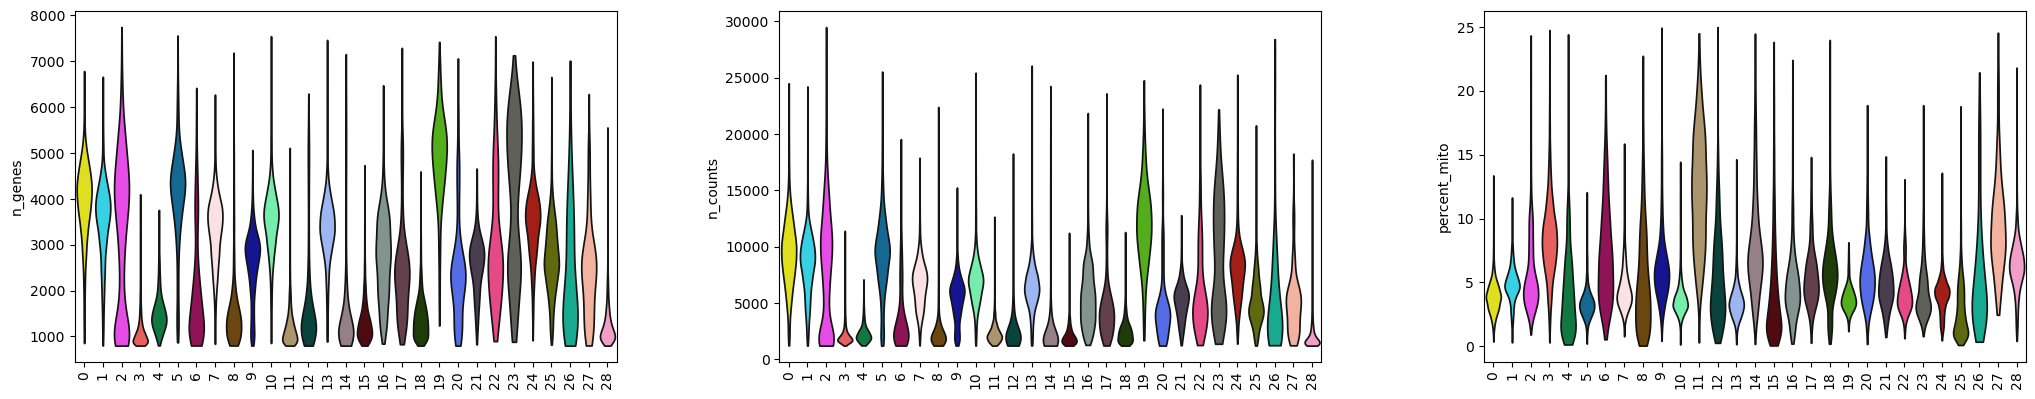
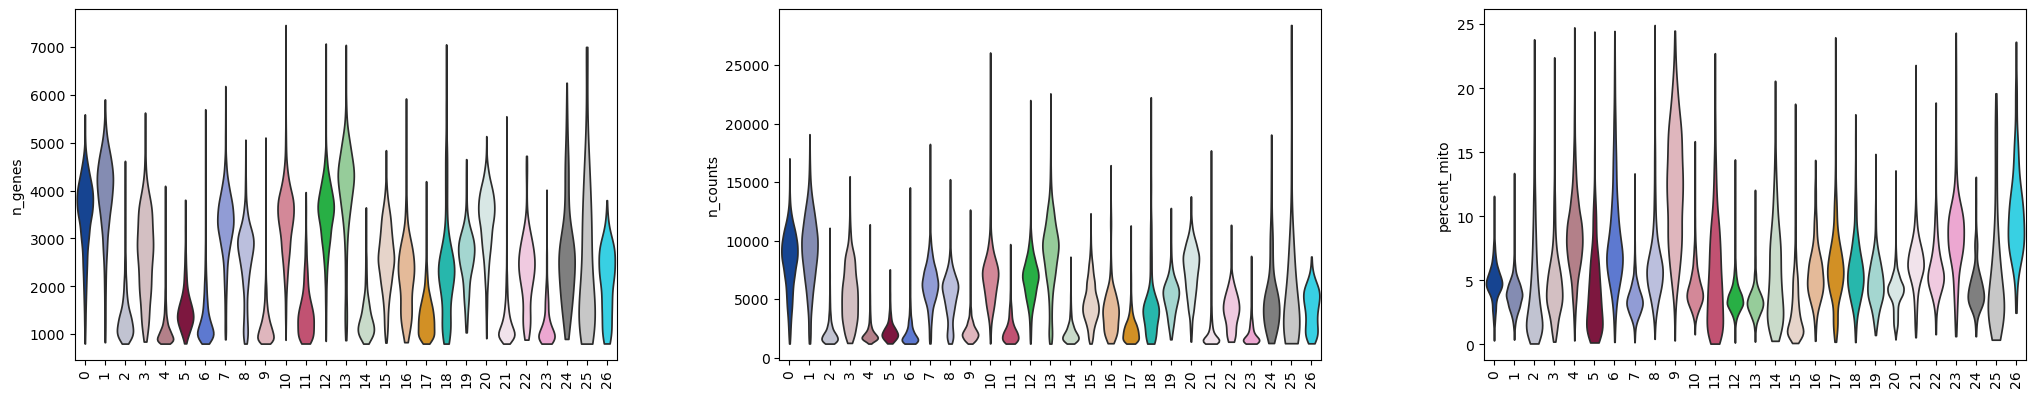
Update reClsuter and add umap/qc after recluster

diff --git a/src/reCluster.py b/src/reCluster.py
@@ -11,6 +11,7 @@ def main():
     args = parser.parse_args()
 
     out_base = os.path.splitext(os.path.basename(args.output))[0]
+    input_base = os.path.splitext(os.path.basename(args.input))[0]
 
     # ----------------------------
     # Load
@@ -32,6 +33,25 @@ def main():
     print(adata.obs["annotation"].value_counts())
 
     # ----------------------------
+    # UMAP after removing clusters (before reclustering)
+    # Use the original UMAP coordinates
+    # ----------------------------
+    removed_umap_file = f"_{input_base}_removedClusters_UMAP.png"
+    sc.pl.umap(
+        adata,
+        color="annotation",
+        legend_loc="on data",
+        title="After Removing Selected Cell Types",
+        show=False,
+        save=removed_umap_file
+    )
+    # shrink cluster numbers (on data)
+    for txt in plt.gca().texts:
+        txt.set_fontsize(6)
+    plt.draw()
+    plt.close()
+
+    # ----------------------------
     # Reclustering (use existing log counts)
     # ----------------------------
     print("Reclustering...")
@@ -48,7 +68,7 @@ def main():
     )
 
     # ----------------------------
-    # Original UMAP (only smaller cluster number font)
+    # Reclustered UMAP
     # ----------------------------
     sc.pl.umap(
         adata,
@@ -58,15 +78,13 @@ def main():
         show=False,
         save=f"_{out_base}_UMAP_recluster.png"
     )
-
-    # shrink cluster numbers (on data)
     for txt in plt.gca().texts:
         txt.set_fontsize(6)
     plt.draw()
     plt.close()
 
     # ----------------------------
-    # Original QC violin (only smaller X-axis tick font)
+    # QC violin
     # ----------------------------
     qc_vars = ["n_genes", "n_counts", "percent_mito"]
 
@@ -80,8 +98,6 @@ def main():
         show=False,
         save=f"_{out_base}_QC_violin_by_cluster.png"
     )
-
-    # shrink X-axis tick numbers
     for ax in plt.gcf().axes:
         ax.tick_params(axis='x', labelsize=8)
     plt.draw()
@@ -95,6 +111,7 @@ def main():
 
     print("DONE.")
     print(f"Figures:")
+    print(f" {removed_umap_file}")
     print(f" _{out_base}_UMAP_recluster.png")
     print(f" _{out_base}_QC_violin_by_cluster.png")
 

diff --git a/README.md b/README.md
@@ -222,14 +222,28 @@ Basically:
 ![Annotations doubelt removed 0.8](figures/umap_mInsm1_annotated_annotationsON.png?v=1)
 ![Annotations doubelt removed 0.8](figures/umap_mInsm1_annotated_annotations.png?v=1)
 
-### Remove non retinal neurons and reCluster
+### Remove non retinal neurons 
 We removed:
 - RPE
 - Astrocytes
 - Microglia
-- Endothelia
+- Endothelial
 
 
-Then we reClustered
+### Umap after removal of non retinal neurons 
+
+![Removed clusters](figures/umap_mInsm1_annotated_removedClusters_UMAP.png?v=1)
+
+### Then we reClustered
+
+![reClustered](figures/umap_mInsm1_reClustered_UMAP_recluster.png?v=1) 
+
+
+
+### Checking QC 
+
+![QC](figures/violin_mInsm1_reClustered_QC_violin_by_cluster.png?v=1)
+
+
 
 
